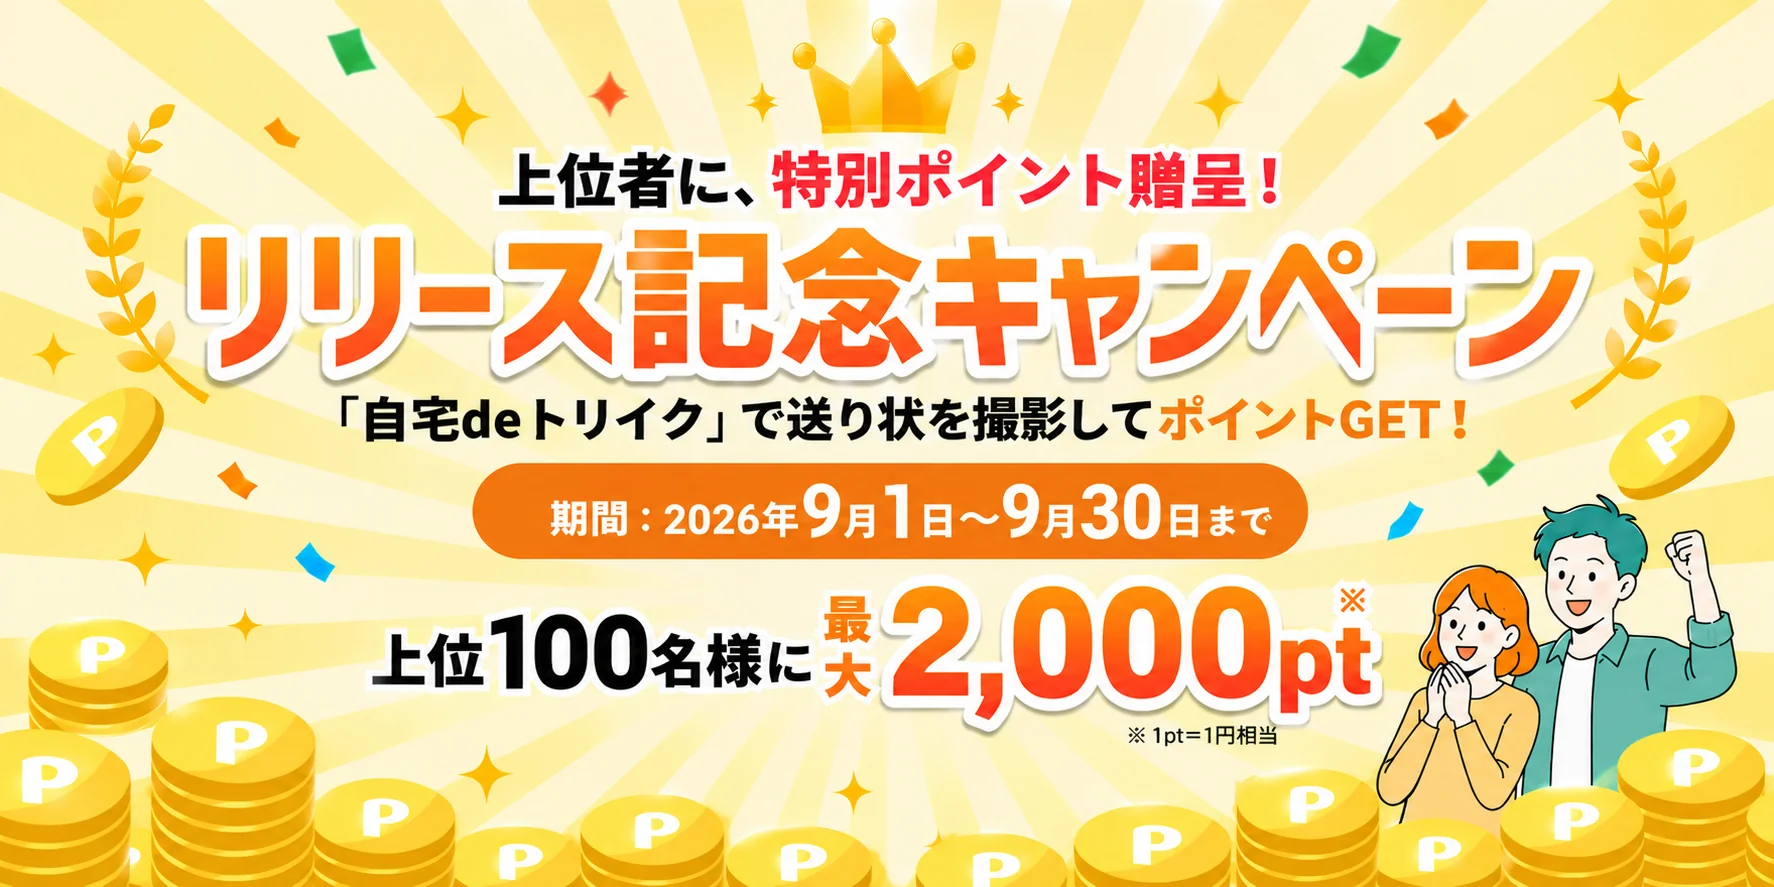
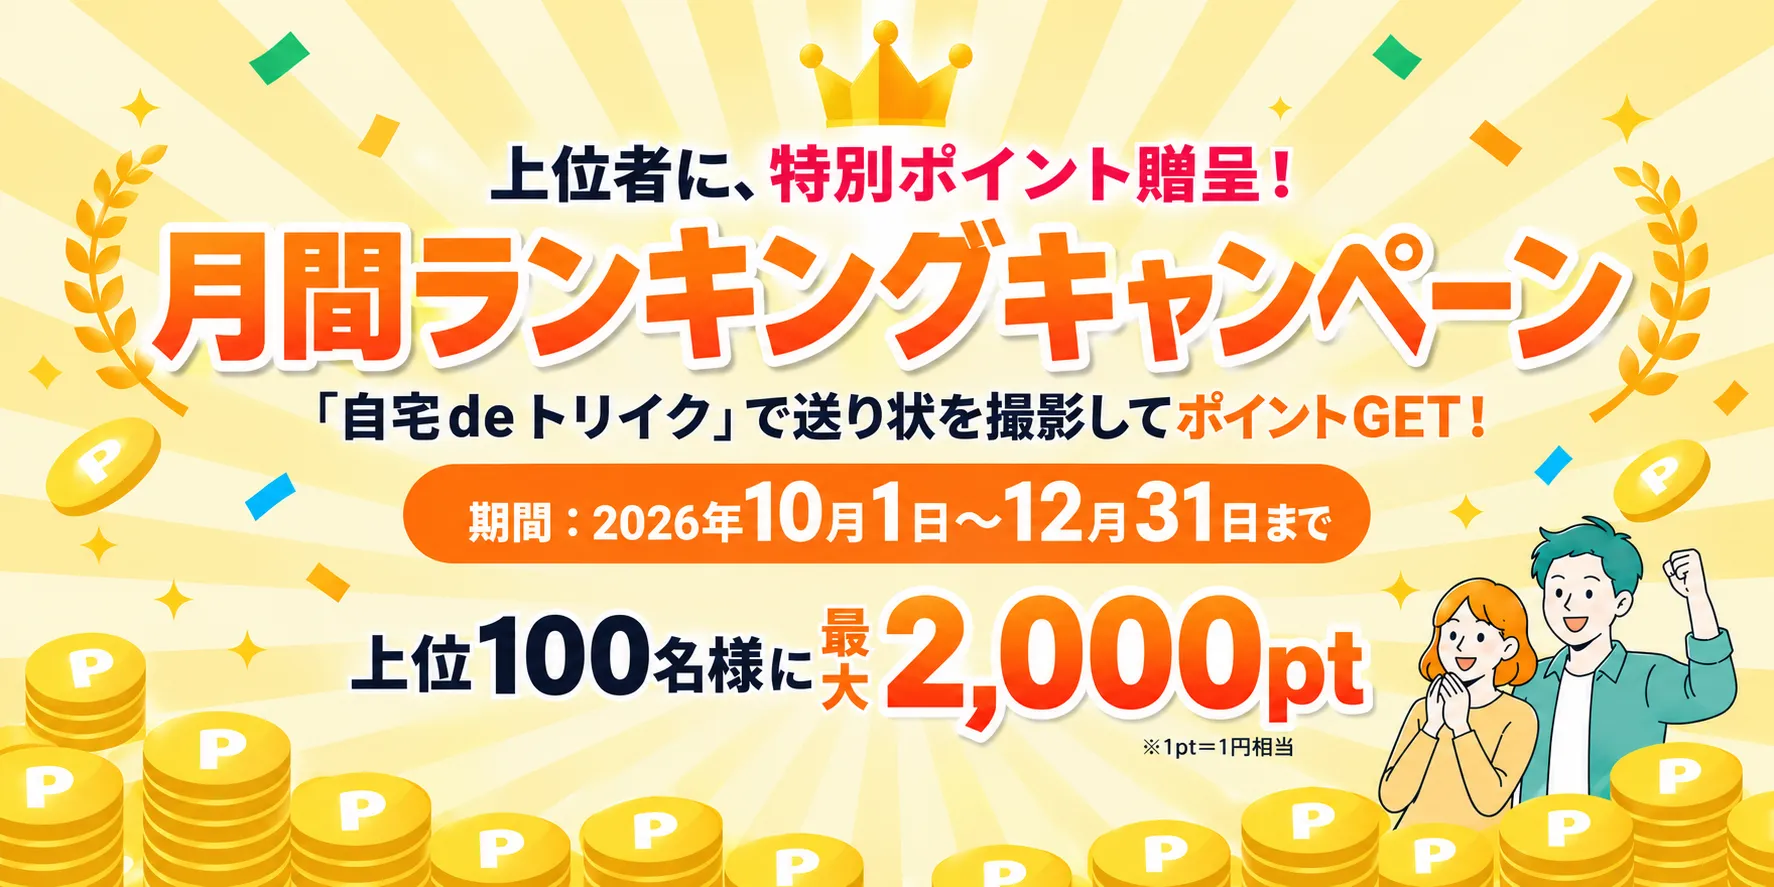
キャンペーンバナーを月間ランキングキャンペーン（10/1〜12/31）に差し替え
- img/banner-cp2.webp を新バナーに更新
- alt文言を新キャンペーン内容に変更
- キャッシュ回避用に ?v=20261002 を付与

diff --git a/index.html b/index.html
@@ -98,7 +98,7 @@
     <section class="media">
       <div class="media__banners">
         <a href="https://toriiku-cp.com/" target="_blank" rel="noopener" class="media__banner">
-          <img src="img/banner-cp2.webp" alt="リリース記念キャンペーン 「自宅deトリイク」で送り状を撮影してポイントGET！ 上位100名様に最大2,000pt 期間：2026年9月1日〜9月30日まで" width="560" height="280">
+          <img src="img/banner-cp2.webp?v=20261002" alt="月間ランキングキャンペーン 「自宅deトリイク」で送り状を撮影してポイントGET！ 上位100名様に最大2,000pt 期間：2026年10月1日〜12月31日まで" width="560" height="280">
         </a>
       </div>
 
